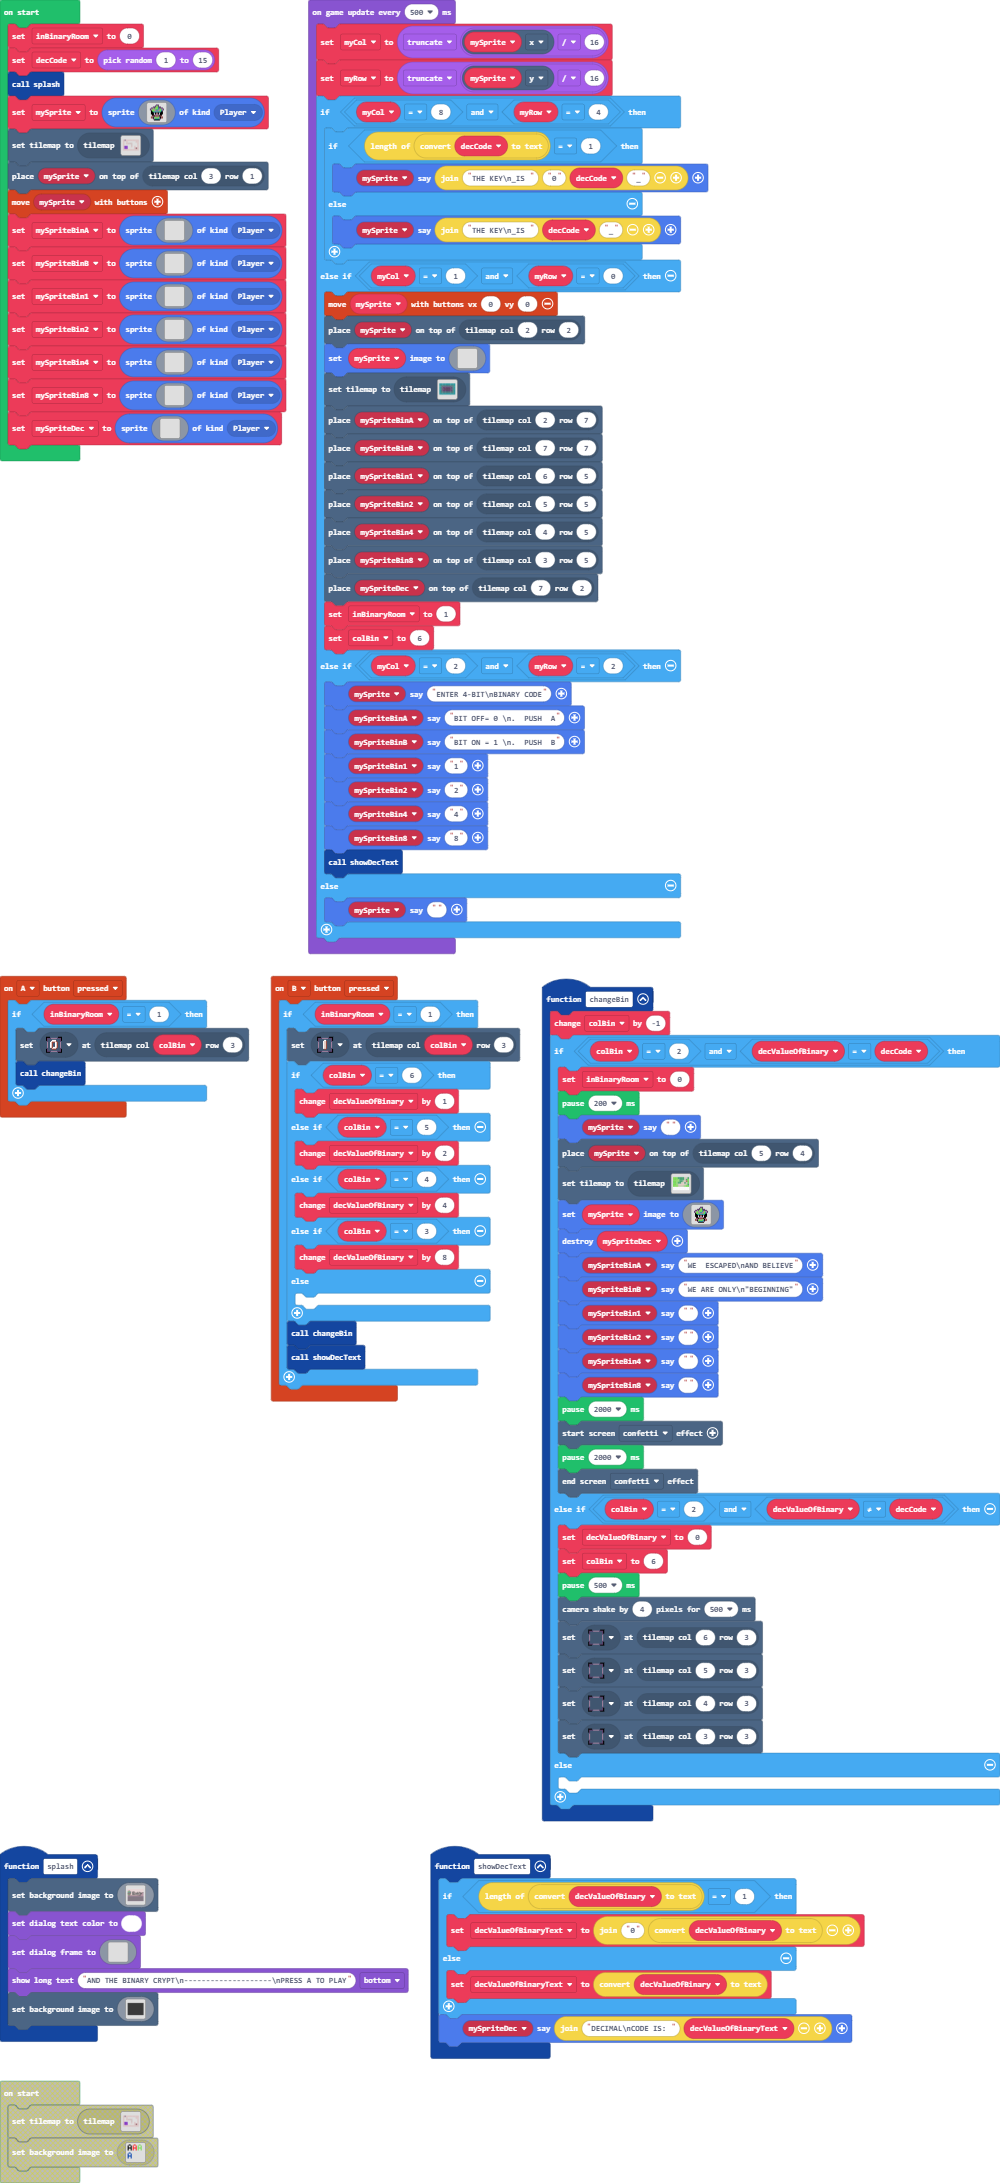
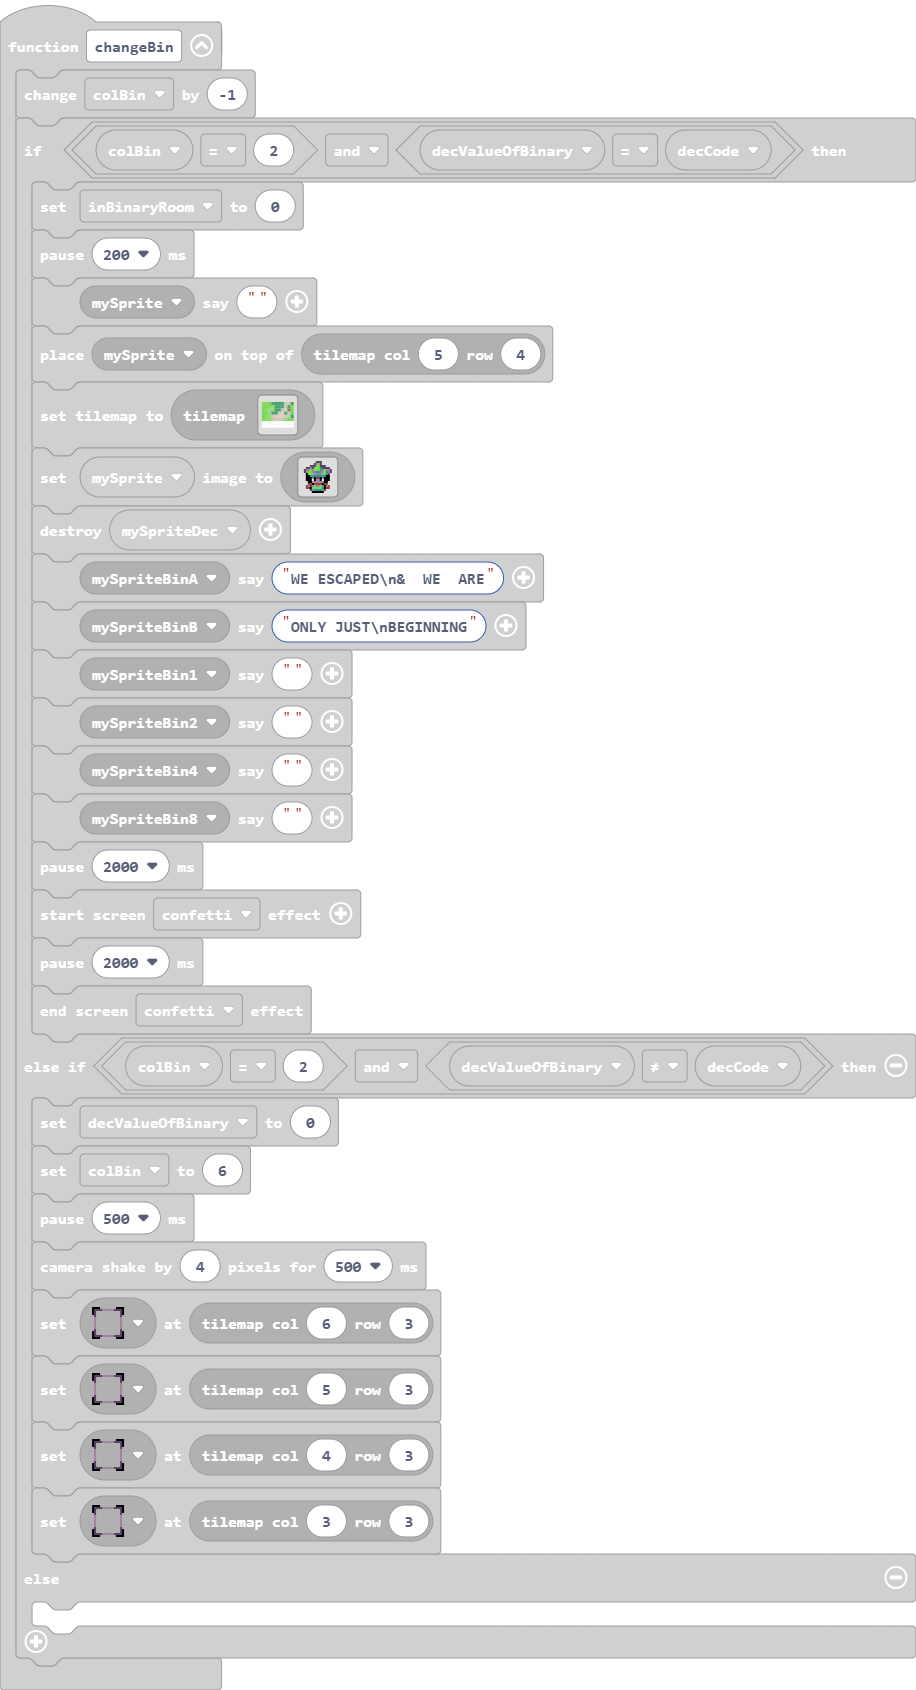
Updated text at end of game, still fully playable!

diff --git a/tilemap.g.ts b/tilemap.g.ts
@@ -380,6 +380,25 @@ namespace myTiles {
 . . . . . . . . . . 
 . . . . . . . . . . 
 `, [myTiles.transparency16,sprites.castle.tileGrass2,sprites.castle.tileGrass1,sprites.castle.tilePath5,sprites.castle.tileGrass3,sprites.castle.tilePath8,sprites.castle.tilePath2,sprites.castle.tilePath1,sprites.castle.tilePath9,sprites.castle.tilePath7,sprites.castle.tilePath6,sprites.builtin.forestTiles0,sprites.castle.tilePath4,myTiles.tile8,myTiles.tile9,sprites.dungeon.chestClosed], TileScale.Sixteen);
+            case "level6":
+            case "level6":return tiles.createTilemap(hex`1000100000000000000000000000000000000000000000000000000000000000000000000000000000000000000000000000000000000000000000000000000000000000000000000000000000000000000000000000000000000000000000000000000000000000000000000000000000000000000000000000000000000000000000000000000000000000000000000000000000000000000000000000000000000000000000000000000000000000000000000000000000000000000000000000000000000000000000000000000000000000000000000000000000000000000000000000000000000000000000000000000000000000000000000000000000000000`, img`
+. . . . . . . . . . . . . . . . 
+. . . . . . . . . . . . . . . . 
+. . . . . . . . . . . . . . . . 
+. . . . . . . . . . . . . . . . 
+. . . . . . . . . . . . . . . . 
+. . . . . . . . . . . . . . . . 
+. . . . . . . . . . . . . . . . 
+. . . . . . . . . . . . . . . . 
+. . . . . . . . . . . . . . . . 
+. . . . . . . . . . . . . . . . 
+. . . . . . . . . . . . . . . . 
+. . . . . . . . . . . . . . . . 
+. . . . . . . . . . . . . . . . 
+. . . . . . . . . . . . . . . . 
+. . . . . . . . . . . . . . . . 
+. . . . . . . . . . . . . . . . 
+`, [myTiles.transparency16], TileScale.Sixteen);
         }
         return null;
     })

diff --git a/main.ts b/main.ts
@@ -40,8 +40,8 @@ function changeBin () {
         tiles.setCurrentTilemap(tilemap`esc_outside`)
         mySprite.setImage(assets.image`myWitchForward0`)
         sprites.destroy(mySpriteDec)
-        mySpriteBinA.sayText("WE  ESCAPED\\nAND BELIEVE")
-        mySpriteBinB.sayText("WE ARE ONLY\\n\"BEGINNING\"")
+        mySpriteBinA.sayText("WE ESCAPED\\n&  WE  ARE")
+        mySpriteBinB.sayText("ONLY JUST\\nBEGINNING")
         mySpriteBin1.sayText("")
         mySpriteBin2.sayText("")
         mySpriteBin4.sayText("")

diff --git a/main.py b/main.py
@@ -50,8 +50,8 @@ def changeBin():
             myWitchForward0
         """))
         sprites.destroy(mySpriteDec)
-        mySpriteBinA.say_text("WE  ESCAPED\\nAND BELIEVE")
-        mySpriteBinB.say_text("WE ARE ONLY\\n\"BEGINNING\"")
+        mySpriteBinA.say_text("WE ESCAPED\\n&  WE  ARE")
+        mySpriteBinB.say_text("ONLY JUST\\nBEGINNING")
         mySpriteBin1.say_text("")
         mySpriteBin2.say_text("")
         mySpriteBin4.say_text("")
